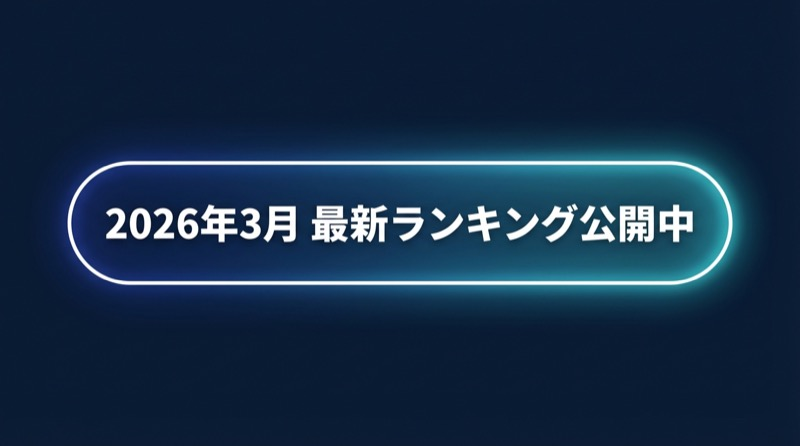
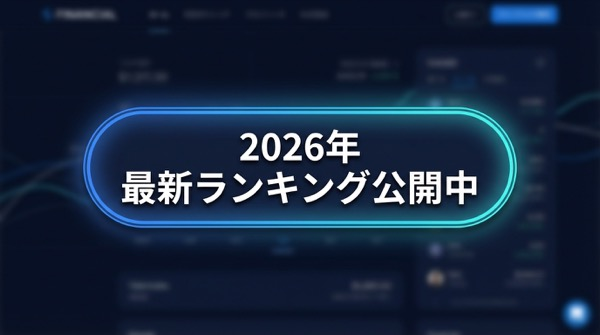
fix: テレアポ風ヒーロー + バッジ画像 + 数値バー画像 + 運送業ロゴ除去

diff --git a/app/page.tsx b/app/page.tsx
@@ -92,10 +92,10 @@ export default async function HomePage() {
             <div className="inline-block mb-4">
               <Image
                 src="/images/badge-ranking.jpg"
-                alt="2026年3月 最新ランキング公開中"
-                width={280}
-                height={52}
-                className="rounded-full"
+                alt="2026年 最新ランキング公開中"
+                width={320}
+                height={56}
+                className="rounded-xl"
                 priority
               />
             </div>
@@ -125,43 +125,29 @@ export default async function HomePage() {
                 ランキングを見る
               </a>
             </div>
-            {/* Stats */}
-            <div className="flex gap-6 justify-center md:justify-start">
-              <div className="text-center">
-                <p className="text-3xl font-black text-white">
-                  10<span className="text-lg">社</span>
-                </p>
-                <p className="text-xs text-blue-300">掲載業者数</p>
-              </div>
-              <div className="w-px bg-white/20" />
-              <div className="text-center">
-                <p className="text-3xl font-black text-white">
-                  96<span className="text-lg">%</span>
-                </p>
-                <p className="text-xs text-blue-300">利用満足度</p>
-              </div>
-              <div className="w-px bg-white/20" />
-              <div className="text-center">
-                <p className="text-3xl font-black text-white">
-                  最短<span className="text-lg">10分</span>
-                </p>
-                <p className="text-xs text-blue-300">入金スピード</p>
-              </div>
-            </div>
-          </div>
-
-          {/* Hero photo */}
-          <div className="flex-1 hidden md:flex justify-end relative">
-            <div className="relative w-[340px] h-[440px]">
+            {/* Stats image */}
+            <div>
               <Image
-                src="/images/hero-woman.jpg"
-                alt="ファクタリング比較ナビ"
-                fill
-                className="object-cover object-top rounded-2xl"
-                style={{ maskImage: "linear-gradient(to bottom, black 75%, transparent 100%)" }}
+                src="/images/stats-bar.jpg"
+                alt="掲載業者数10社 / 利用満足度96% / 最短10分入金スピード"
+                width={520}
+                height={120}
+                className="rounded-xl"
                 priority
               />
             </div>
+          </div>
+
+          {/* Hero photo - teleoperator */}
+          <div className="flex-1 hidden md:flex justify-end items-end relative">
+            <Image
+              src="/images/hero-teleop.jpg"
+              alt="ファクタリング比較ナビ - 無料相談"
+              width={360}
+              height={480}
+              className="object-contain drop-shadow-2xl"
+              priority
+            />
           </div>
         </div>
       </section>
